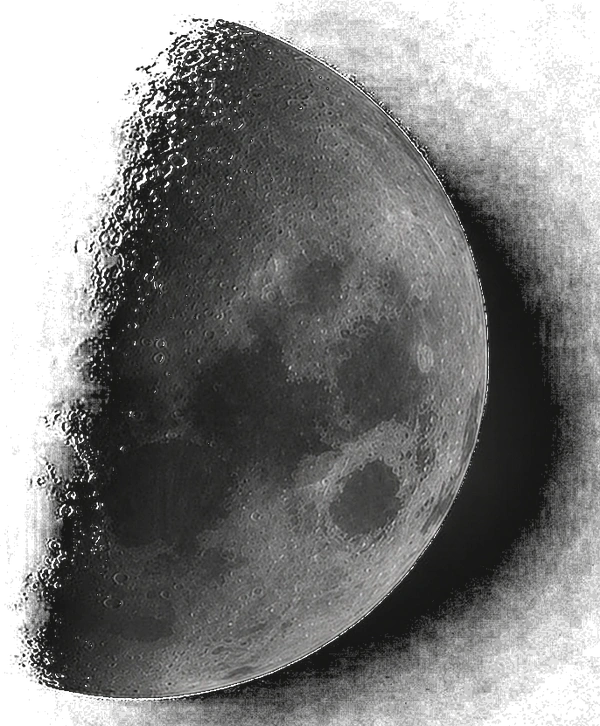
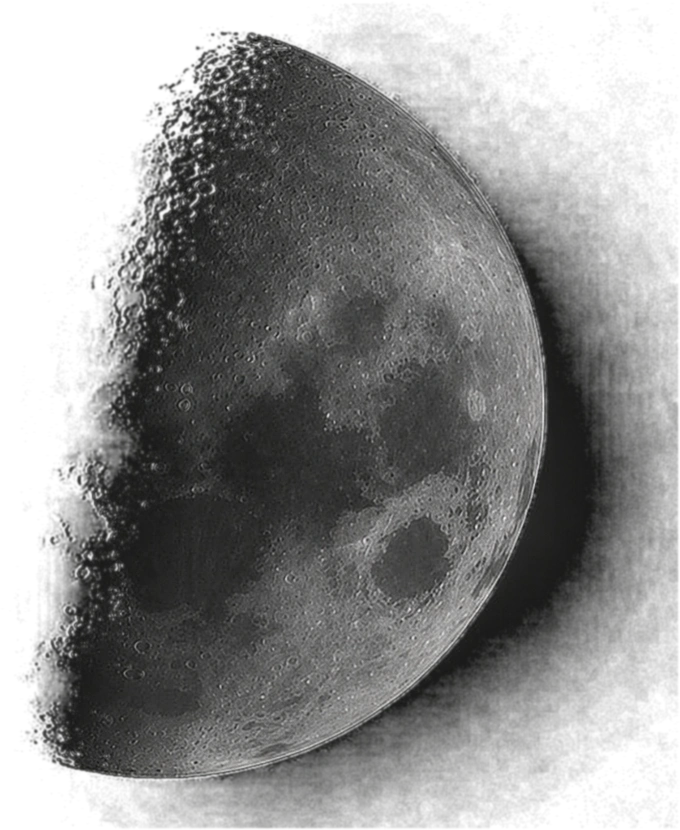
feat: restore custom cursor and implement Experience moon exactly like astronaut with seamless alpha transparency

diff --git a/style.css b/style.css
@@ -37,8 +37,39 @@ body {
 }
 img { display:block; max-width:100%; }
 a   { color:inherit; text-decoration:none; }
-button { cursor:pointer; border:none; background:none; font:inherit; color:inherit; }
-a, button, [tabindex] { cursor: pointer; }
+button { cursor:none; border:none; background:none; font:inherit; color:inherit; }
+a, button, [tabindex] { cursor: none; }
+
+/* ── Custom Cursor ── */
+#cursor-dot {
+  position: fixed;
+  width: 8px; height: 8px;
+  background: var(--cyan);
+  border-radius: 50%;
+  pointer-events: none;
+  z-index: 9999;
+  top: 0; left: 0;
+  transform: translate(-50%, -50%);
+  transition: width .2s, height .2s, background .2s;
+  box-shadow: 0 0 10px var(--cyan), 0 0 20px rgba(56,189,248,0.4);
+}
+#cursor-ring {
+  position: fixed;
+  width: 36px; height: 36px;
+  border: 1.5px solid rgba(56,189,248,0.55);
+  border-radius: 50%;
+  pointer-events: none;
+  z-index: 9998;
+  top: 0; left: 0;
+  transform: translate(-50%, -50%);
+  transition: width .35s var(--ease), height .35s var(--ease),
+              border-color .35s ease, transform .1s linear;
+  backdrop-filter: none;
+}
+body.cursor-hover #cursor-dot  { width: 12px; height: 12px; background: #fff; }
+body.cursor-hover #cursor-ring { width: 52px; height: 52px; border-color: var(--cyan); }
+body.cursor-click #cursor-dot  { width: 6px; height: 6px; }
+body.cursor-click #cursor-ring { width: 28px; height: 28px; }
 
 /* â”€â”€ Canvas â”€â”€ */
 #starfield {
@@ -404,32 +435,30 @@ body::before {
   background:var(--cyan-d); transform:translateY(-2px);
 }
 
-/* ── EXPERIENCE ── */
+/* ── EXPERIENCE SECTION & MOON (Atmospheric Background Element, Just like Astronaut) ── */
 .experience-section {
   position: relative;
   overflow: hidden;
-  isolation: isolate;
 }
 
-.experience-section::after {
-  content: "";
+.experience-moon-bg {
   position: absolute;
-  width: clamp(440px, 32vw, 620px);
-  height: clamp(440px, 32vw, 620px);
-  right: clamp(-300px, -12vw, -150px);
-  top: 120px;
-
-  background-image: url("assets/moon_supplied.png");
-  background-repeat: no-repeat;
-  background-position: center;
-  background-size: contain;
-
-  /* Black pixels must blend into the navy starfield instead of forming a box */
-  mix-blend-mode: screen;
-  opacity: 0.52;
-
+  top: 50%;
+  right: -5%;
+  transform: translateY(-50%);
+  width: 520px;
+  max-width: 46vw;
   pointer-events: none;
   z-index: 0;
+  opacity: 0.65;
+}
+
+.experience-moon-img {
+  width: 100%;
+  height: auto;
+  display: block;
+  user-select: none;
+  pointer-events: none;
 }
 
 .experience-section .experience-content,
@@ -439,21 +468,19 @@ body::before {
 .experience-section h2,
 .experience-section p {
   position: relative;
-  z-index: 1;
+  z-index: 2;
 }
 
 @media (max-width: 992px) {
-  .experience-section::after {
-    width: clamp(320px, 30vw, 460px);
-    height: clamp(320px, 30vw, 460px);
-    right: -200px;
-    top: 180px;
-    opacity: 0.38;
+  .experience-moon-bg {
+    width: 380px;
+    right: -100px;
+    opacity: 0.45;
   }
 }
 
 @media (max-width: 680px) {
-  .experience-section::after {
+  .experience-moon-bg {
     display: none;
   }
 }

diff --git a/index.html b/index.html
@@ -8,9 +8,13 @@
   <link rel="preconnect" href="https://fonts.googleapis.com">
   <link rel="preconnect" href="https://fonts.gstatic.com" crossorigin>
   <link href="https://fonts.googleapis.com/css2?family=Space+Grotesk:wght@300;400;500;600;700&family=Inter:wght@300;400;500;600&family=Space+Mono:ital,wght@0,400;0,700&display=swap" rel="stylesheet">
-  <link rel="stylesheet" href="style.css?v=10.0">
+  <link rel="stylesheet" href="style.css?v=11.0">
 </head>
 <body>
+
+  <!-- Custom cursor -->
+  <div id="cursor-dot"  aria-hidden="true"></div>
+  <div id="cursor-ring" aria-hidden="true"></div>
 
   <canvas id="starfield" aria-hidden="true"></canvas>
 
@@ -165,6 +169,14 @@
 
   <!-- EXPERIENCE -->
   <section id="experience" class="section experience-section reveal">
+    <!-- Atmospheric Moon in Background — Just like Astronaut -->
+    <div class="experience-moon-bg" aria-hidden="true" data-parallax="0.03">
+      <picture>
+        <source srcset="assets/experience_moon.webp?v=11.0" type="image/webp">
+        <img src="assets/experience_moon.png?v=11.0" alt="" class="experience-moon-img" draggable="false" loading="lazy">
+      </picture>
+    </div>
+
     <div class="section-content experience-content">
       <div class="sec-label">03 · Experience</div>
       <h2 class="sec-title">Work &amp; Leadership</h2>
@@ -534,6 +546,6 @@
     </div>
   </footer>
 
-  <script src="script.js?v=10.0"></script>
+  <script src="script.js?v=11.0"></script>
 </body>
 </html>
